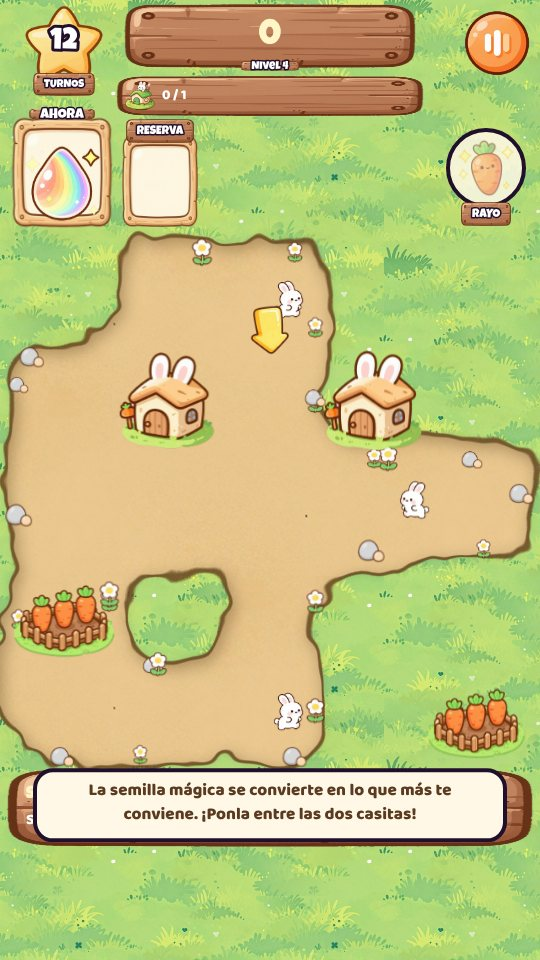
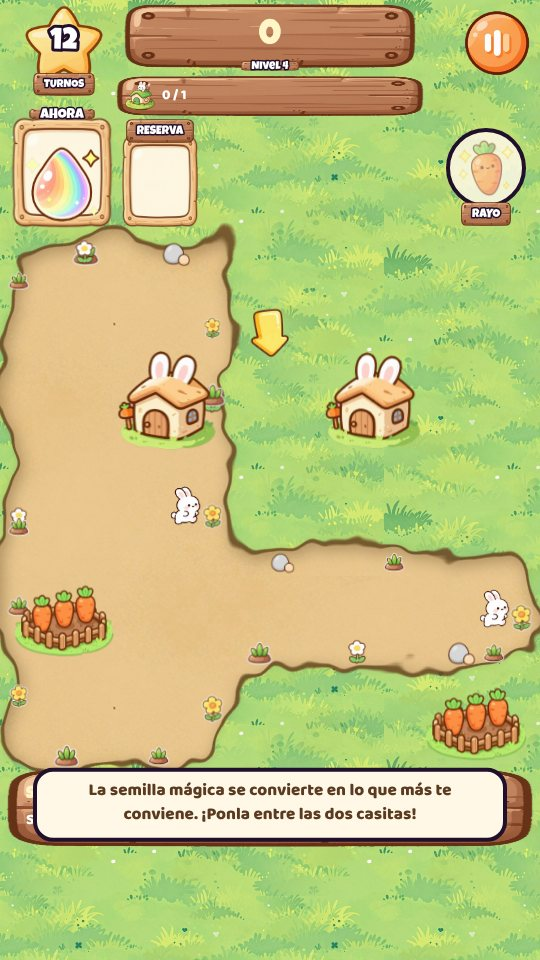
alfa 1c833ec: Fans of Merge: matitas de hierba y flores amarillas de Yoshi en el borde del cam

Changed region(s): [[0.0, 0.1562, 1.0, 0.8125]]

diff --git a/alfa/index.html b/alfa/index.html
@@ -10,10 +10,10 @@
 <link rel="preconnect" href="https://fonts.googleapis.com">
 <link rel="preconnect" href="https://fonts.gstatic.com" crossorigin>
 <link rel="stylesheet" href="https://fonts.googleapis.com/css2?family=Baloo+2:wght@600;700;800&family=Luckiest+Guy&display=swap">
-<link rel="stylesheet" href="core/css/base.css?v=3952a5c">
-<link rel="stylesheet" href="biblioteca/tienda.css?v=3952a5c">
-<link rel="stylesheet" href="novedades/ventana.css?v=3952a5c">
-<link rel="stylesheet" href="biblioteca/votos.css?v=3952a5c">
+<link rel="stylesheet" href="core/css/base.css?v=1c833ec">
+<link rel="stylesheet" href="biblioteca/tienda.css?v=1c833ec">
+<link rel="stylesheet" href="novedades/ventana.css?v=1c833ec">
+<link rel="stylesheet" href="biblioteca/votos.css?v=1c833ec">
 <style>
   /* la entrada de la web: una tarjeta por juego, con los colores y las letras de core */
   body { overflow: auto; touch-action: auto; align-items: flex-start; background-repeat: no-repeat; background-attachment: fixed; }
@@ -61,7 +61,7 @@
 </style>
 </head>
 <body>
-<script src="menu.js?v=3952a5c" data-base="" data-core="1" data-pagina=""></script>
+<script src="menu.js?v=1c833ec" data-base="" data-core="1" data-pagina=""></script>
 <div class="nov-fondo" id="novedades" hidden>
   <div class="nov-caja" role="dialog" aria-modal="true" aria-labelledby="nov-titulo">
     <div class="nov-cabeza"><h2 class="ol" id="nov-titulo">NOVEDADES</h2><p id="nov-sub"></p></div>
@@ -333,8 +333,8 @@
   </section>
   <p class="note" id="pie-fansof">Fans Of™ · © 2026 Arkioner y Pepins · MicroBlizz · Todos los derechos reservados</p>
 </main>
-<script src="core/js/nucleo.js?v=0-a661.3952a5c"></script>
-<script src="core/js/novedades.js?v=3952a5c"></script>
+<script src="core/js/nucleo.js?v=0-a662.1c833ec"></script>
+<script src="core/js/novedades.js?v=1c833ec"></script>
 <script>
 // La cuenta de la web es la misma de los juegos (core/js/sistema/cuenta.js, mismo navegador = misma sesión). Aquí no hay partida que subir.
 const AJUSTES = { id: 'web', guardado: 'fansof-web' }, SAVE_KEY = AJUSTES.guardado, SAVE = {};
@@ -343,7 +343,7 @@ const HOOKS = {};
 function hook(name, fn) { (HOOKS[name] = HOOKS[name] || []).push(fn); }
 function fire(name, ...a) { let out = ''; for (const fn of HOOKS[name] || []) { const r = fn(...a); if (typeof r === 'string') out += r; } return out; }
 </script>
-<script src="core/js/sistema/cuenta.js?v=3952a5c"></script>
+<script src="core/js/sistema/cuenta.js?v=1c833ec"></script>
 <script>NUCLEO.idiomaSolo({ en: ['core/idioma/en-raiz.js', 'novedades/en.js', 'biblioteca/en.js','games/rumble/idioma/en-7.js', 'games/td/idioma/en-2.js', 'games/survivors/idioma/en.js', 'games/crush/idioma/en-raiz.js', 'games/jump/idioma/en-raiz.js', 'games/taxi/idioma/en-raiz.js', 'games/dark/idioma/en-raiz.js', 'games/nova/idioma/en-raiz.js', 'demos/beams/idioma/en-raiz.js', 'demos/snakes/idioma/en-raiz.js', 'demos/merge/idioma/en-raiz.js', 'demos/swipe/idioma/en-raiz.js', 'demos/vikings/idioma/en-raiz.js', 'demos/goose/idioma/en-raiz.js', 'demos/asalto/idioma/en-raiz.js', 'demos/auto/idioma/en-raiz.js', 'games/island/idioma/en-raiz.js', 'demos/rumble-3d/idioma/en-raiz.js', 'demos/roguelite/idioma/en-raiz.js', 'demos/tactics-advance/idioma/en-raiz.js', 'games/rouflage/idioma/en-raiz.js', 'demos/dungeons/idioma/en-raiz.js', 'games/karts/idioma/en-raiz.js', 'demos/recruit/idioma/en-raiz.js', 'demos/terminal-shock/idioma/en-raiz.js', 'games/ratkov/idioma/en-raiz.js'] })</script>
 <script>
 // La versión y las novedades salen de los archivos de cada juego, así que esta página nunca se queda atrás.
@@ -369,14 +369,14 @@ const fail = id => () => {
 };
 
 </script>
-<script src="core/js/proximamente.js?v=3952a5c"></script>
-<script src="novedades/ventana.js?v=3952a5c"></script>
-<script src="biblioteca/tienda.js?v=3952a5c"></script>
-<script src="core/js/sistema/beta.js?v=3952a5c"></script>
-<script src="biblioteca/cuenta-web.js?v=3952a5c"></script>
-<script src="biblioteca/votos.js?v=3952a5c"></script>
-<script src="biblioteca/alfa.js?v=3952a5c"></script>
-<script src="core/js/sistema/analitica.js?v=3952a5c"></script>
-<script src="pie.js?v=3952a5c" defer></script>
+<script src="core/js/proximamente.js?v=1c833ec"></script>
+<script src="novedades/ventana.js?v=1c833ec"></script>
+<script src="biblioteca/tienda.js?v=1c833ec"></script>
+<script src="core/js/sistema/beta.js?v=1c833ec"></script>
+<script src="biblioteca/cuenta-web.js?v=1c833ec"></script>
+<script src="biblioteca/votos.js?v=1c833ec"></script>
+<script src="biblioteca/alfa.js?v=1c833ec"></script>
+<script src="core/js/sistema/analitica.js?v=1c833ec"></script>
+<script src="pie.js?v=1c833ec" defer></script>
 </body>
 </html>

diff --git a/alfa/games/rouflage/index.html b/alfa/games/rouflage/index.html
@@ -10,7 +10,7 @@
 <link rel="preconnect" href="https://fonts.googleapis.com">
 <link rel="preconnect" href="https://fonts.gstatic.com" crossorigin>
 <link rel="stylesheet" href="https://fonts.googleapis.com/css2?family=Baloo+2:wght@600;700;800&family=Luckiest+Guy&display=swap">
-<script src="../../core/js/nucleo.js?v=0.2.63-a661.3952a5c"></script>
+<script src="../../core/js/nucleo.js?v=0.2.63-a662.1c833ec"></script>
 <script>NUCLEO.estilos('../../core/css/base.css', '../../core/css/menus.css', '../../core/css/menus-extra.css')</script>
 <script>NUCLEO.estilos('estilo.css', 'estilo-taller.css', 'estilo-pantallas.css', 'estilo-pvp.css', 'estilo-armario.css', 'estilo-menus.css', 'estilo-misiones.css', 'estilo-escenario.css', 'estilo-votos.css', 'estilo-gacha.css', 'estilo-compra.css', 'estilo-fin.css', 'estilo-talentos.css', 'estilo-chat.css', 'estilo-titulo.css', 'estilo-barra.css', 'estilo-sala-viva.css', 'estilo-obra.css', 'estilo-ayuda.css', 'estilo-carga.css')</script>      <!-- la intro, la última: pisa el #carga de estilo.css (antes iba en línea dentro de #carga) -->
 </head>

diff --git a/alfa/games/karts/index.html b/alfa/games/karts/index.html
@@ -8,7 +8,7 @@
 <meta name="description" content="Fans of Karts (juego): carreras de karts en pixel art de consola portátil con los líderes de Fans of Rumble. Tres pistas, seis pilotos, objetos con mala idea y Microblizz, que ha comprado la carrera.">
 <link rel="icon" type="image/png" href="img/icon-192.png">
 <link rel="apple-touch-icon" href="img/icon-192.png">
-<script src="../../core/js/nucleo.js?v=0.7.15-a661.3952a5c"></script>
+<script src="../../core/js/nucleo.js?v=0.7.15-a662.1c833ec"></script>
 <script>NUCLEO.estilos('../../core/css/base.css', '../../core/css/menus.css', '../../core/css/menus-tienda.css', '../../core/css/menus-extra.css', 'css/tienda.css', 'css/pvp.css')</script>
 <link rel="stylesheet" href="https://fonts.googleapis.com/css2?family=Baloo+2:wght@600;700;800&family=Luckiest+Guy&display=swap">
 <style>

diff --git a/alfa/games/dark/index.html b/alfa/games/dark/index.html
@@ -12,7 +12,7 @@
 <link rel="stylesheet" href="https://fonts.googleapis.com/css2?family=Baloo+2:wght@600;700;800&family=Luckiest+Guy&family=Press+Start+2P&family=Pixelify+Sans:wght@400;600;700&display=swap">
 <link rel="stylesheet" href="css/dark.css?v=0.2.4">
 <!-- Prototipo: no usa NUCLEO (tiene su propia partida guardada). Carga de core el arte, la música, los efectos y las cifras del Rumble.
-     VERSIÓN para desplegar.py (que la busca así): nucleo.js?v=0.2.7-a661.3952a5c' (aquí solo se anota; súbela junto al ?v= de los scripts). -->
+     VERSIÓN para desplegar.py (que la busca así): nucleo.js?v=0.2.7-a662.1c833ec' (aquí solo se anota; súbela junto al ?v= de los scripts). -->
 </head>
 <body>
 <canvas id="cv" aria-label="Mazmorra"></canvas>

diff --git a/alfa/games/rumble/index.html b/alfa/games/rumble/index.html
@@ -16,7 +16,7 @@
 <link rel="preconnect" href="https://fonts.gstatic.com" crossorigin>
 <link rel="stylesheet" href="https://fonts.googleapis.com/css2?family=Baloo+2:wght@600;700;800&family=Luckiest+Guy&display=swap">
 <!-- core/js/nucleo.js carga lo común y el juego. LA VERSIÓN SE ESCRIBE SOLO AQUÍ, en su ?v= -->
-<script src="../../core/js/nucleo.js?v=0.9.158-a661.3952a5c"></script>
+<script src="../../core/js/nucleo.js?v=0.9.158-a662.1c833ec"></script>
 <script>NUCLEO.estilos('../../core/css/menus.css', 'css/estilos-partida.css', 'css/estilos-extra.css', 'css/arena.css', '../../core/css/biblioteca.css', 'css/facciones-y-jefes.css', '../../core/css/clasificacion.css', 'css/frases.css', 'css/mitica.css', 'css/paletas.css')</script>
 
 </head>

diff --git a/alfa/games/jump/index.html b/alfa/games/jump/index.html
@@ -12,7 +12,7 @@
 <link rel="preconnect" href="https://fonts.gstatic.com" crossorigin>
 <link rel="stylesheet" href="https://fonts.googleapis.com/css2?family=Baloo+2:wght@600;700;800&family=Luckiest+Guy&display=swap">
 <!-- ?v= es la versión del juego (la misma en la web y en la app): súbela al publicar y pon su entrada en js/novedades.js -->
-<script src="../../core/js/nucleo.js?v=0.3.16-a661.3952a5c"></script>
+<script src="../../core/js/nucleo.js?v=0.3.16-a662.1c833ec"></script>
 <script>NUCLEO.estilos('../../core/css/base.css', '../../core/css/menus.css')</script>
 <style>
 /* Fans of Jump: un solo canvas a la resolución real de la pantalla, con los dibujos 3D. El mundo mide unos 200 de ancho y se

diff --git a/alfa/games/decks/index.html b/alfa/games/decks/index.html
@@ -15,7 +15,7 @@
 <link rel="preconnect" href="https://fonts.gstatic.com" crossorigin>
 <link rel="stylesheet" href="https://fonts.googleapis.com/css2?family=Baloo+2:wght@600;700;800&family=Luckiest+Guy&display=swap">
 <!-- core/js/nucleo.js carga lo común y el juego. LA VERSIÓN SE ESCRIBE SOLO AQUÍ, en su ?v= -->
-<script src="../../core/js/nucleo.js?v=0.2.21-a661.3952a5c"></script>
+<script src="../../core/js/nucleo.js?v=0.2.21-a662.1c833ec"></script>
 <script>NUCLEO.estilos('../../core/css/base.css', '../../core/css/menus.css', 'css/decks.css', 'css/decks-reunion.css', 'css/decks-anim.css', 'css/decks-campana.css', 'css/decks-lideres.css')</script>
 </head>
 <body>

diff --git a/alfa/demos/goose/index.html b/alfa/demos/goose/index.html
@@ -10,7 +10,7 @@
 <link rel="preconnect" href="https://fonts.gstatic.com" crossorigin>
 <link rel="stylesheet" href="https://fonts.googleapis.com/css2?family=Pixelify+Sans:wght@500;700&family=Pirata+One&display=swap">
 <!-- ?v= es la versión de la demo: súbela al publicar -->
-<script src="../../core/js/nucleo.js?v=0.3.0-a661.3952a5c"></script>
+<script src="../../core/js/nucleo.js?v=0.3.0-a662.1c833ec"></script>
 <script>NUCLEO.estilos('../../core/css/base.css', '../../core/css/menus.css')</script>
 <style>
 /* Fans of Goose: un solo canvas en vertical, a la resolución real del móvil. El mundo mide 200 de ancho. */

diff --git a/alfa/games/ratkov/index.html b/alfa/games/ratkov/index.html
@@ -13,7 +13,7 @@
 <link rel="preconnect" href="https://fonts.gstatic.com" crossorigin>
 <link rel="stylesheet" href="https://fonts.googleapis.com/css2?family=VT323&family=Russo+One&display=swap">
 <script src="https://cdnjs.cloudflare.com/ajax/libs/three.js/r128/three.min.js"></script>
-<script src="../../core/js/nucleo.js?v=0.2.29-a661.3952a5c"></script>
+<script src="../../core/js/nucleo.js?v=0.2.29-a662.1c833ec"></script>
 <script>NUCLEO.estilos('../../core/css/base.css', '../../core/css/menus.css')</script>
 <link rel="stylesheet" href="estilo.css?v=0.2.3">
 <link rel="stylesheet" href="estilo-refugio.css?v=0.2.3">

diff --git a/alfa/games/survivors/index.html b/alfa/games/survivors/index.html
@@ -15,7 +15,7 @@
 <link rel="preconnect" href="https://fonts.gstatic.com" crossorigin>
 <link rel="stylesheet" href="https://fonts.googleapis.com/css2?family=Baloo+2:wght@600;700;800&family=Luckiest+Guy&display=swap">
 <!-- core/js/nucleo.js carga lo común y el juego. LA VERSIÓN SE ESCRIBE SOLO AQUÍ, en su ?v= -->
-<script src="../../core/js/nucleo.js?v=0.1.71-a661.3952a5c"></script>
+<script src="../../core/js/nucleo.js?v=0.1.71-a662.1c833ec"></script>
 <script>NUCLEO.estilos('../../core/css/base.css', '../../core/css/menus.css', 'css/survivors.css', '../../core/css/biblioteca.css')</script>
 </head>
 <body>

diff --git a/alfa/games/td/index.html b/alfa/games/td/index.html
@@ -15,7 +15,7 @@
 <link rel="preconnect" href="https://fonts.gstatic.com" crossorigin>
 <link rel="stylesheet" href="https://fonts.googleapis.com/css2?family=Baloo+2:wght@600;700;800&family=Luckiest+Guy&display=swap">
 <!-- core/js/nucleo.js carga lo común y el juego. LA VERSIÓN SE ESCRIBE SOLO AQUÍ, en su ?v= -->
-<script src="../../core/js/nucleo.js?v=0.13.87-a661.3952a5c"></script>
+<script src="../../core/js/nucleo.js?v=0.13.87-a662.1c833ec"></script>
 <script>NUCLEO.estilos('../../core/css/base.css', 'css/td.css', '../../core/css/menus.css', '../../core/css/biblioteca.css')</script>
 </head>
 <body>

diff --git a/alfa/demos/snakes/index.html b/alfa/demos/snakes/index.html
@@ -10,7 +10,7 @@
 <link rel="preconnect" href="https://fonts.gstatic.com" crossorigin>
 <link rel="stylesheet" href="https://fonts.googleapis.com/css2?family=Baloo+2:wght@600;700;800&display=swap">
 <!-- ?v= es la versión de la demo: súbela al publicar -->
-<script src="../../core/js/nucleo.js?v=0.2.1-a661.3952a5c"></script>
+<script src="../../core/js/nucleo.js?v=0.2.1-a662.1c833ec"></script>
 <script>NUCLEO.estilos('../../core/css/base.css', '../../core/css/menus.css')</script>
 <style>
 /* Fans of Snakes: un solo canvas en vertical, a la resolución real del móvil. El mundo mide 200 de ancho. */
